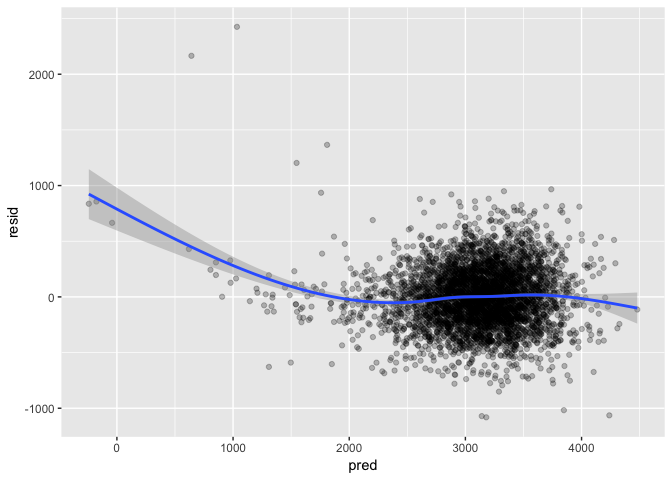
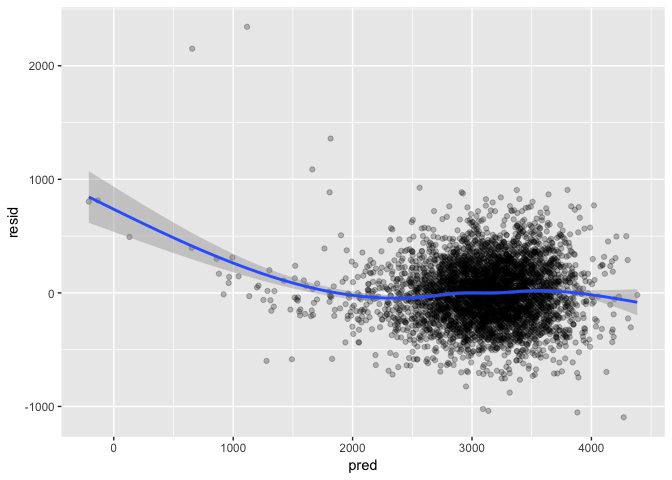
comment

diff --git a/P8105_hw6_rm3609.md b/P8105_hw6_rm3609.md
@@ -86,31 +86,13 @@ Load and clean the data for regression analysis (i.e. convert numeric to factor 
 ``` r
 bw_data = read_csv("./birthweight.csv")
 
+bw_data = 
 bw_data %>% 
   mutate(babysex = as.factor(babysex), 
          frace = as.factor(frace),  
          malform = as.factor(malform),  
          mrace = as.factor(mrace))
-```
-
-    ## # A tibble: 4,342 x 20
-    ##    babysex bhead blength   bwt delwt fincome frace gaweeks malform menarche
-    ##    <fct>   <int>   <int> <int> <int>   <int> <fct>   <dbl> <fct>      <int>
-    ##  1 2          34      51  3629   177      35 1        39.9 0             13
-    ##  2 1          34      48  3062   156      65 2        25.9 0             14
-    ##  3 2          36      50  3345   148      85 1        39.9 0             12
-    ##  4 1          34      52  3062   157      55 1        40   0             14
-    ##  5 2          34      52  3374   156       5 1        41.6 0             13
-    ##  6 1          33      52  3374   129      55 1        40.7 0             12
-    ##  7 2          33      46  2523   126      96 2        40.3 0             14
-    ##  8 2          33      49  2778   140       5 1        37.4 0             12
-    ##  9 1          36      52  3515   146      85 1        40.3 0             11
-    ## 10 1          33      50  3459   169      75 2        40.7 0             12
-    ## # ... with 4,332 more rows, and 10 more variables: mheight <int>,
-    ## #   momage <int>, mrace <fct>, parity <int>, pnumlbw <int>, pnumsga <int>,
-    ## #   ppbmi <dbl>, ppwt <int>, smoken <dbl>, wtgain <int>
-
-``` r
+  
 sum(is.na(bw_data))
 ```
 
@@ -119,142 +101,188 @@ sum(is.na(bw_data))
 Propose a regression model for birthweight. This model may be based on a hypothesized structure for the factors that underly birthweight, on a data-driven model-building process, or a combination of the two. Describe your modeling process and show a plot of model residuals against fitted values – use add\_predictions and add\_residuals in making this plot.
 
 ``` r
-bwt_model = lm(bwt ~ ., data = bw_data)
-step(bwt_model, direction = 'both')
+bwt_model_step = lm(bwt ~ ., data = bw_data)
+step(bwt_model_step, direction = 'both')
 ```
 
-    ## Start:  AIC=48810.15
+    ## Start:  AIC=48717.83
     ## bwt ~ babysex + bhead + blength + delwt + fincome + frace + gaweeks + 
     ##     malform + menarche + mheight + momage + mrace + parity + 
     ##     pnumlbw + pnumsga + ppbmi + ppwt + smoken + wtgain
     ## 
     ## 
-    ## Step:  AIC=48810.15
+    ## Step:  AIC=48717.83
     ## bwt ~ babysex + bhead + blength + delwt + fincome + frace + gaweeks + 
     ##     malform + menarche + mheight + momage + mrace + parity + 
     ##     pnumlbw + pnumsga + ppbmi + ppwt + smoken
     ## 
     ## 
-    ## Step:  AIC=48810.15
+    ## Step:  AIC=48717.83
     ## bwt ~ babysex + bhead + blength + delwt + fincome + frace + gaweeks + 
     ##     malform + menarche + mheight + momage + mrace + parity + 
     ##     pnumlbw + ppbmi + ppwt + smoken
     ## 
     ## 
-    ## Step:  AIC=48810.15
+    ## Step:  AIC=48717.83
     ## bwt ~ babysex + bhead + blength + delwt + fincome + frace + gaweeks + 
     ##     malform + menarche + mheight + momage + mrace + parity + 
     ##     ppbmi + ppwt + smoken
     ## 
     ##            Df Sum of Sq       RSS   AIC
-    ## - ppbmi     1       315 328372167 48808
-    ## - malform   1      3018 328374870 48808
-    ## - mheight   1     15827 328387679 48808
-    ## - frace     1     33781 328405633 48809
-    ## - ppwt      1     77194 328449045 48809
-    ## <none>                  328371852 48810
-    ## - menarche  1    161362 328533213 48810
-    ## - parity    1    366128 328737979 48813
-    ## - momage    1    632160 329004012 48816
-    ## - fincome   1   1030574 329402426 48822
-    ## - babysex   1   1086475 329458327 48822
-    ## - mrace     1   1778556 330150407 48832
-    ## - smoken    1   3106197 331478048 48849
-    ## - gaweeks   1   5017414 333389265 48874
-    ## - delwt     1   7473440 335845292 48906
-    ## - blength   1 106590743 434962595 50029
-    ## - bhead     1 113902511 442274363 50101
+    ## - frace     4    124365 320848704 48712
+    ## - malform   1      1419 320725757 48716
+    ## - ppbmi     1      6346 320730684 48716
+    ## - momage    1     28661 320752999 48716
+    ## - mheight   1     66886 320791224 48717
+    ## - menarche  1    111679 320836018 48717
+    ## - ppwt      1    131132 320855470 48718
+    ## <none>                  320724338 48718
+    ## - fincome   1    193454 320917792 48718
+    ## - parity    1    413584 321137922 48721
+    ## - mrace     3    868321 321592659 48724
+    ## - babysex   1    853796 321578134 48727
+    ## - gaweeks   1   4611823 325336161 48778
+    ## - smoken    1   5076393 325800732 48784
+    ## - delwt     1   8008891 328733230 48823
+    ## - blength   1 102050296 422774634 49915
+    ## - bhead     1 106535716 427260054 49961
     ## 
-    ## Step:  AIC=48808.15
-    ## bwt ~ babysex + bhead + blength + delwt + fincome + frace + gaweeks + 
+    ## Step:  AIC=48711.51
+    ## bwt ~ babysex + bhead + blength + delwt + fincome + gaweeks + 
     ##     malform + menarche + mheight + momage + mrace + parity + 
-    ##     ppwt + smoken
+    ##     ppbmi + ppwt + smoken
     ## 
     ##            Df Sum of Sq       RSS   AIC
-    ## - malform   1      3033 328375200 48806
-    ## - frace     1     33825 328405992 48807
-    ## <none>                  328372167 48808
-    ## - menarche  1    161091 328533258 48808
-    ## + ppbmi     1       315 328371852 48810
-    ## - parity    1    366498 328738665 48811
-    ## - momage    1    632022 329004189 48815
-    ## - mheight   1    675684 329047851 48815
-    ## - fincome   1   1030291 329402457 48820
-    ## - babysex   1   1086908 329459074 48820
-    ## - mrace     1   1778610 330150776 48830
-    ## - smoken    1   3105969 331478135 48847
-    ## - ppwt      1   3179601 331551767 48848
-    ## - gaweeks   1   5018627 333390793 48872
-    ## - delwt     1   7474996 335847163 48904
-    ## - blength   1 106590460 434962626 50027
-    ## - bhead     1 113972011 442344178 50100
+    ## - malform   1      1447 320850151 48710
+    ## - ppbmi     1      6975 320855679 48710
+    ## - momage    1     28379 320877083 48710
+    ## - mheight   1     69502 320918206 48710
+    ## - menarche  1    115708 320964411 48711
+    ## - ppwt      1    133961 320982665 48711
+    ## <none>                  320848704 48712
+    ## - fincome   1    194405 321043108 48712
+    ## - parity    1    414687 321263390 48715
+    ## + frace     4    124365 320724338 48718
+    ## - babysex   1    852133 321700837 48721
+    ## - gaweeks   1   4625208 325473911 48772
+    ## - smoken    1   5036389 325885093 48777
+    ## - delwt     1   8013099 328861802 48817
+    ## - mrace     3  13540415 334389119 48885
+    ## - blength   1 101995688 422844392 49908
+    ## - bhead     1 106662962 427511666 49956
     ## 
-    ## Step:  AIC=48806.19
-    ## bwt ~ babysex + bhead + blength + delwt + fincome + frace + gaweeks + 
-    ##     menarche + mheight + momage + mrace + parity + ppwt + smoken
+    ## Step:  AIC=48709.53
+    ## bwt ~ babysex + bhead + blength + delwt + fincome + gaweeks + 
+    ##     menarche + mheight + momage + mrace + parity + ppbmi + ppwt + 
+    ##     smoken
     ## 
     ##            Df Sum of Sq       RSS   AIC
-    ## - frace     1     33987 328409187 48805
-    ## <none>                  328375200 48806
-    ## - menarche  1    161625 328536825 48806
-    ## + malform   1      3033 328372167 48808
-    ## + ppbmi     1       330 328374870 48808
-    ## - parity    1    366217 328741417 48809
-    ## - momage    1    634318 329009517 48813
-    ## - mheight   1    674643 329049842 48813
-    ## - fincome   1   1028426 329403626 48818
-    ## - babysex   1   1085480 329460680 48819
-    ## - mrace     1   1780124 330155324 48828
-    ## - smoken    1   3103025 331478225 48845
-    ## - ppwt      1   3188216 331563416 48846
-    ## - gaweeks   1   5016626 333391826 48870
-    ## - delwt     1   7493191 335868391 48902
-    ## - blength   1 106598488 434973688 50025
-    ## - bhead     1 113989429 442364629 50098
+    ## - ppbmi     1      6928 320857079 48708
+    ## - momage    1     28660 320878811 48708
+    ## - mheight   1     69320 320919470 48708
+    ## - menarche  1    116027 320966177 48709
+    ## - ppwt      1    133894 320984044 48709
+    ## <none>                  320850151 48710
+    ## - fincome   1    193784 321043934 48710
+    ## + malform   1      1447 320848704 48712
+    ## - parity    1    414482 321264633 48713
+    ## + frace     4    124393 320725757 48716
+    ## - babysex   1    851279 321701430 48719
+    ## - gaweeks   1   4624003 325474154 48770
+    ## - smoken    1   5035195 325885346 48775
+    ## - delwt     1   8029079 328879230 48815
+    ## - mrace     3  13553320 334403471 48883
+    ## - blength   1 102009225 422859375 49906
+    ## - bhead     1 106675331 427525481 49954
     ## 
-    ## Step:  AIC=48804.64
+    ## Step:  AIC=48707.63
     ## bwt ~ babysex + bhead + blength + delwt + fincome + gaweeks + 
     ##     menarche + mheight + momage + mrace + parity + ppwt + smoken
     ## 
     ##            Df Sum of Sq       RSS   AIC
-    ## <none>                  328409187 48805
-    ## - menarche  1    165498 328574685 48805
-    ## + frace     1     33987 328375200 48806
-    ## + malform   1      3194 328405992 48807
-    ## + ppbmi     1       376 328408811 48807
-    ## - parity    1    366935 328776121 48807
-    ## - momage    1    637125 329046311 48811
-    ## - mheight   1    683740 329092927 48812
-    ## - fincome   1   1050875 329460062 48817
-    ## - babysex   1   1085276 329494463 48817
-    ## - smoken    1   3092717 331501903 48843
-    ## - ppwt      1   3192334 331601520 48845
-    ## - gaweeks   1   5019197 333428383 48868
-    ## - mrace     1   5999337 334408523 48881
-    ## - delwt     1   7480901 335890088 48900
-    ## - blength   1 106612808 435021995 50023
-    ## - bhead     1 114005059 442414245 50096
+    ## - momage    1     29211 320886290 48706
+    ## - menarche  1    117635 320974714 48707
+    ## <none>                  320857079 48708
+    ## - fincome   1    195199 321052278 48708
+    ## + ppbmi     1      6928 320850151 48710
+    ## + malform   1      1400 320855679 48710
+    ## - parity    1    412984 321270064 48711
+    ## + frace     4    125020 320732060 48714
+    ## - babysex   1    850020 321707099 48717
+    ## - mheight   1   1078673 321935752 48720
+    ## - ppwt      1   2934023 323791103 48745
+    ## - gaweeks   1   4621504 325478583 48768
+    ## - smoken    1   5039368 325896447 48773
+    ## - delwt     1   8024939 328882018 48813
+    ## - mrace     3  13551444 334408523 48881
+    ## - blength   1 102018559 422875638 49904
+    ## - bhead     1 106821342 427678421 49953
+    ## 
+    ## Step:  AIC=48706.02
+    ## bwt ~ babysex + bhead + blength + delwt + fincome + gaweeks + 
+    ##     menarche + mheight + mrace + parity + ppwt + smoken
+    ## 
+    ##            Df Sum of Sq       RSS   AIC
+    ## - menarche  1    100121 320986412 48705
+    ## <none>                  320886290 48706
+    ## - fincome   1    240800 321127090 48707
+    ## + momage    1     29211 320857079 48708
+    ## + ppbmi     1      7479 320878811 48708
+    ## + malform   1      1678 320884612 48708
+    ## - parity    1    431433 321317724 48710
+    ## + frace     4    124743 320761547 48712
+    ## - babysex   1    841278 321727568 48715
+    ## - mheight   1   1076739 321963029 48719
+    ## - ppwt      1   2913653 323799943 48743
+    ## - gaweeks   1   4676469 325562760 48767
+    ## - smoken    1   5045104 325931394 48772
+    ## - delwt     1   8000672 328886962 48811
+    ## - mrace     3  14667730 335554021 48894
+    ## - blength   1 101990556 422876847 49902
+    ## - bhead     1 106864308 427750598 49952
+    ## 
+    ## Step:  AIC=48705.38
+    ## bwt ~ babysex + bhead + blength + delwt + fincome + gaweeks + 
+    ##     mheight + mrace + parity + ppwt + smoken
+    ## 
+    ##            Df Sum of Sq       RSS   AIC
+    ## <none>                  320986412 48705
+    ## + menarche  1    100121 320886290 48706
+    ## - fincome   1    245637 321232048 48707
+    ## + momage    1     11698 320974714 48707
+    ## + ppbmi     1      8823 320977589 48707
+    ## + malform   1      1884 320984528 48707
+    ## - parity    1    422770 321409181 48709
+    ## + frace     4    128726 320857686 48712
+    ## - babysex   1    846134 321832545 48715
+    ## - mheight   1   1012240 321998651 48717
+    ## - ppwt      1   2907049 323893461 48743
+    ## - gaweeks   1   4662501 325648912 48766
+    ## - smoken    1   5073849 326060260 48771
+    ## - delwt     1   8137459 329123871 48812
+    ## - mrace     3  14683609 335670021 48894
+    ## - blength   1 102191779 423178191 49903
+    ## - bhead     1 106779754 427766166 49950
 
     ## 
     ## Call:
     ## lm(formula = bwt ~ babysex + bhead + blength + delwt + fincome + 
-    ##     gaweeks + menarche + mheight + momage + mrace + parity + 
-    ##     ppwt + smoken, data = bw_data)
+    ##     gaweeks + mheight + mrace + parity + ppwt + smoken, data = bw_data)
     ## 
     ## Coefficients:
-    ## (Intercept)      babysex        bhead      blength        delwt  
-    ##  -6246.3672      32.3171     134.4298      76.3760       3.9564  
-    ##     fincome      gaweeks     menarche      mheight       momage  
-    ##      0.6597      12.0396      -4.3140       5.4408       3.4549  
-    ##       mrace       parity         ppwt       smoken  
-    ##    -53.4990      89.9677      -2.8323      -3.7116
+    ## (Intercept)     babysex2        bhead      blength        delwt  
+    ##   -6098.822       28.558      130.777       74.947        4.107  
+    ##     fincome      gaweeks      mheight       mrace2       mrace3  
+    ##       0.318       11.592        6.594     -138.792      -74.887  
+    ##      mrace4       parity         ppwt       smoken  
+    ##    -100.678       96.305       -2.676       -4.843
 
 ``` r
-bwt_model_final = lm(bwt ~ babysex + bhead + blength + delwt + fincome + gaweeks + menarche + mheight + momage + mrace + parity + ppwt + smoken, data = bw_data)
+bwt_model = lm(bwt ~ babysex + bhead + blength + delwt + fincome + gaweeks + menarche + mheight + momage + mrace + parity + ppwt + smoken, data = bw_data)
 
 bw_data %>% 
-  add_predictions(bwt_model_final) %>% 
-  add_residuals(bwt_model_final) %>% 
+  add_predictions(bwt_model) %>% 
+  add_residuals(bwt_model) %>% 
   ggplot(aes(x = pred, y = resid)) + 
   geom_point(alpha = 0.25) + 
   geom_smooth()
@@ -265,31 +293,29 @@ bw_data %>%
 Compare your model to two others: One using length at birth and gestational age as predictors (main effects only) One using head circumference, length, sex, and all interactions (including the three-way interaction) between these Make this comparison in terms of the cross-validated prediction error; use crossv\_mc and functions in purrr as appropriate.
 
 ``` r
-lm(bwt~blength + gaweeks, data = bw_data)
+cv_df =
+  crossv_mc(bw_data, 100) %>% 
+  mutate(train = map(train, as_tibble),
+         test = map(test, as_tibble))
+
+cv_df = 
+  cv_df %>%
+  mutate(
+    model_1 = map(train, ~lm(bwt~blength + gaweeks, data = .x)),
+    model_2 = map(train, ~lm(bwt~bhead + blength + babysex + babysex * bhead + babysex * blength + blength * bhead + babysex * blength * bhead, data = .x)),
+    model_3 = map(train, ~lm(bwt ~ babysex + bhead + blength + delwt + fincome + gaweeks + menarche + mheight + momage + mrace + parity + ppwt + smoken, data = .x))) %>% 
+   mutate(
+    rmse_1 = map2_dbl(model_1, test, ~rmse(model = .x, data = .y)),
+    rmse_2 = map2_dbl(model_2, test, ~rmse(model = .x, data = .y)),
+    rmse_3 = map2_dbl(model_3, test, ~rmse(model = .x, data = .y)))
+
+cv_df %>% 
+  select(starts_with("rmse")) %>% 
+  gather(key = model, value = rmse) %>% 
+  mutate(model = str_replace(model, "rmse_", ""),
+         model = str_replace(model, "3", "stepwise"),
+         model = fct_inorder(model)) %>% 
+  ggplot(aes(x = model, y = rmse)) + geom_violin()
 ```
 
-    ## 
-    ## Call:
-    ## lm(formula = bwt ~ blength + gaweeks, data = bw_data)
-    ## 
-    ## Coefficients:
-    ## (Intercept)      blength      gaweeks  
-    ##    -4347.67       128.56        27.05
-
-``` r
-lm(bwt~bhead + blength + babysex + babysex * blength + babysex * bhead + blength * bhead + babysex * blength * bhead, data = bw_data)
-```
-
-    ## 
-    ## Call:
-    ## lm(formula = bwt ~ bhead + blength + babysex + babysex * blength + 
-    ##     babysex * bhead + blength * bhead + babysex * blength * bhead, 
-    ##     data = bw_data)
-    ## 
-    ## Coefficients:
-    ##           (Intercept)                  bhead                blength  
-    ##            -13551.685                380.189                225.900  
-    ##               babysex        blength:babysex          bhead:babysex  
-    ##              6374.868               -123.773               -198.393  
-    ##         bhead:blength  bhead:blength:babysex  
-    ##                -4.432                  3.878
+![](P8105_hw6_rm3609_files/figure-markdown_github/unnamed-chunk-8-1.png)
